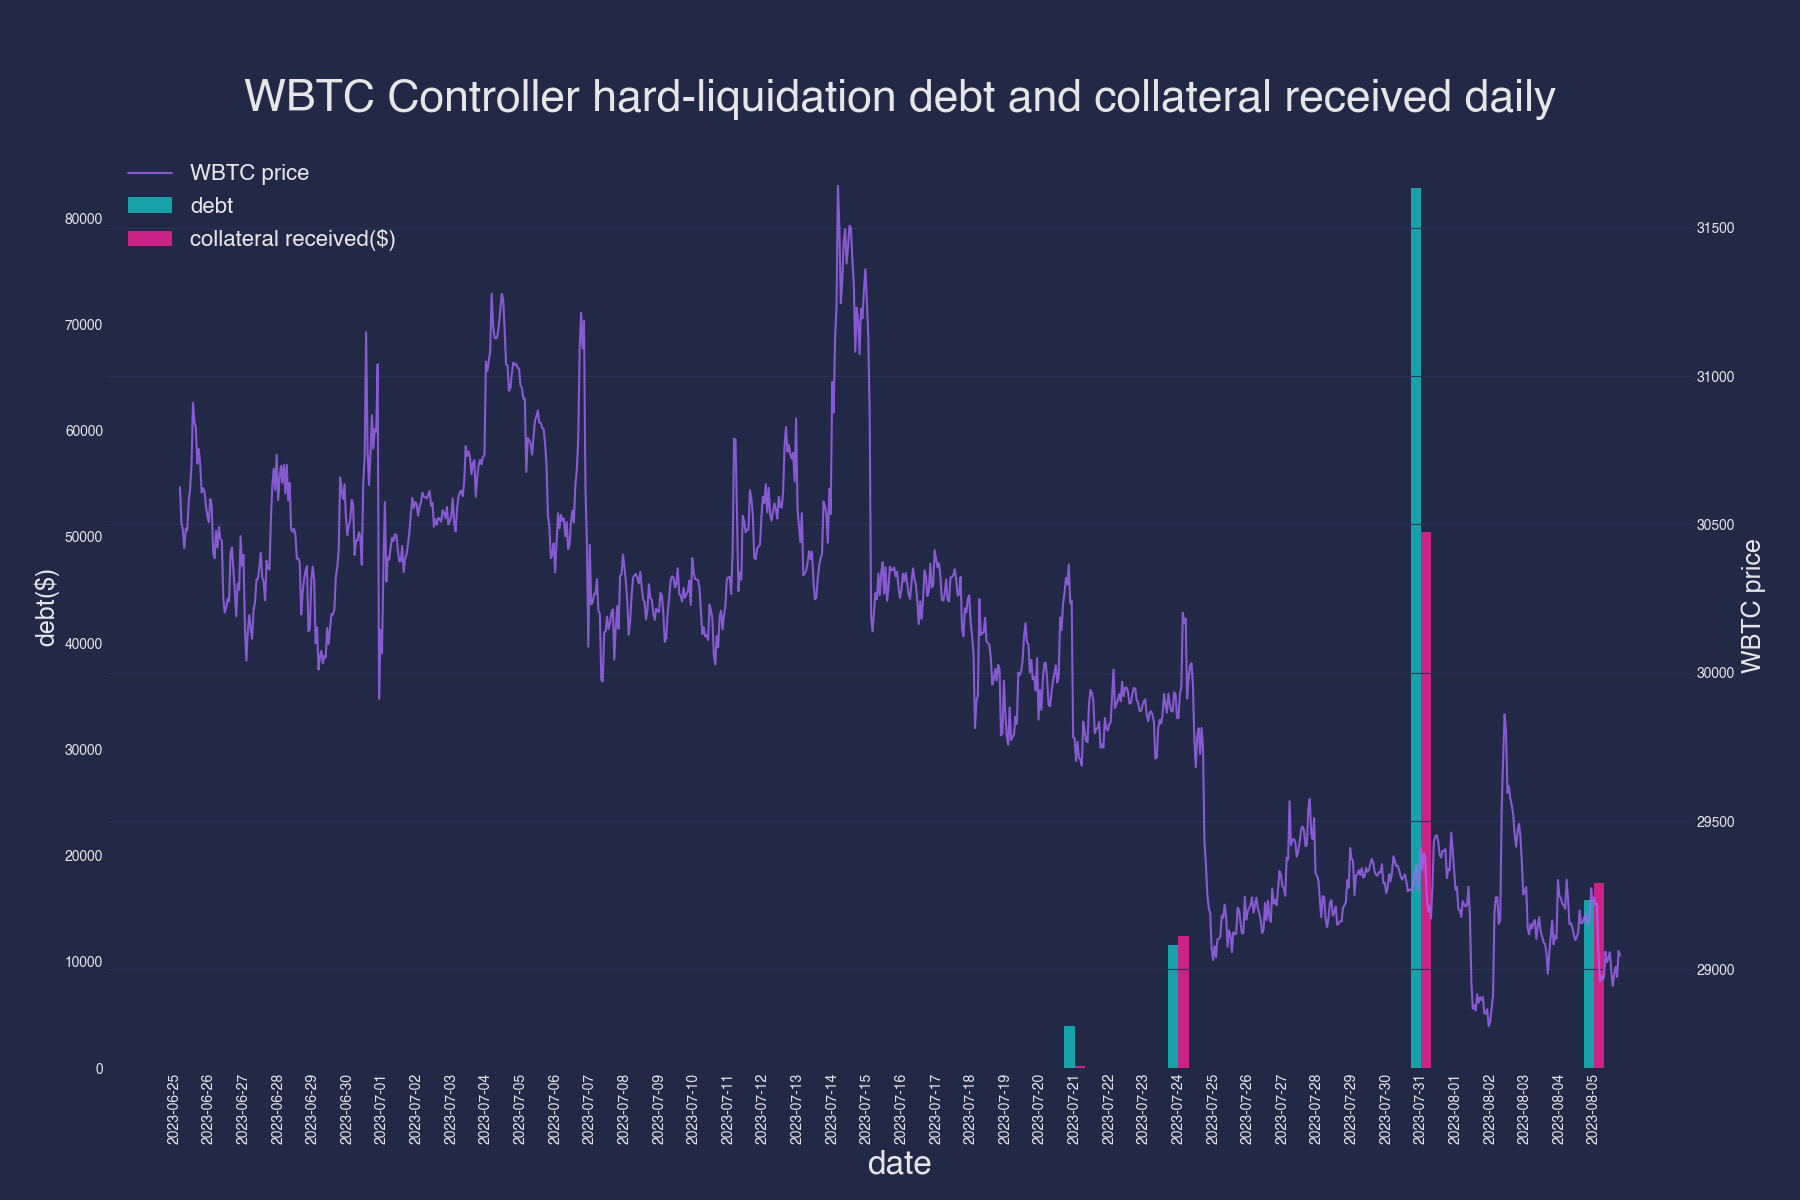
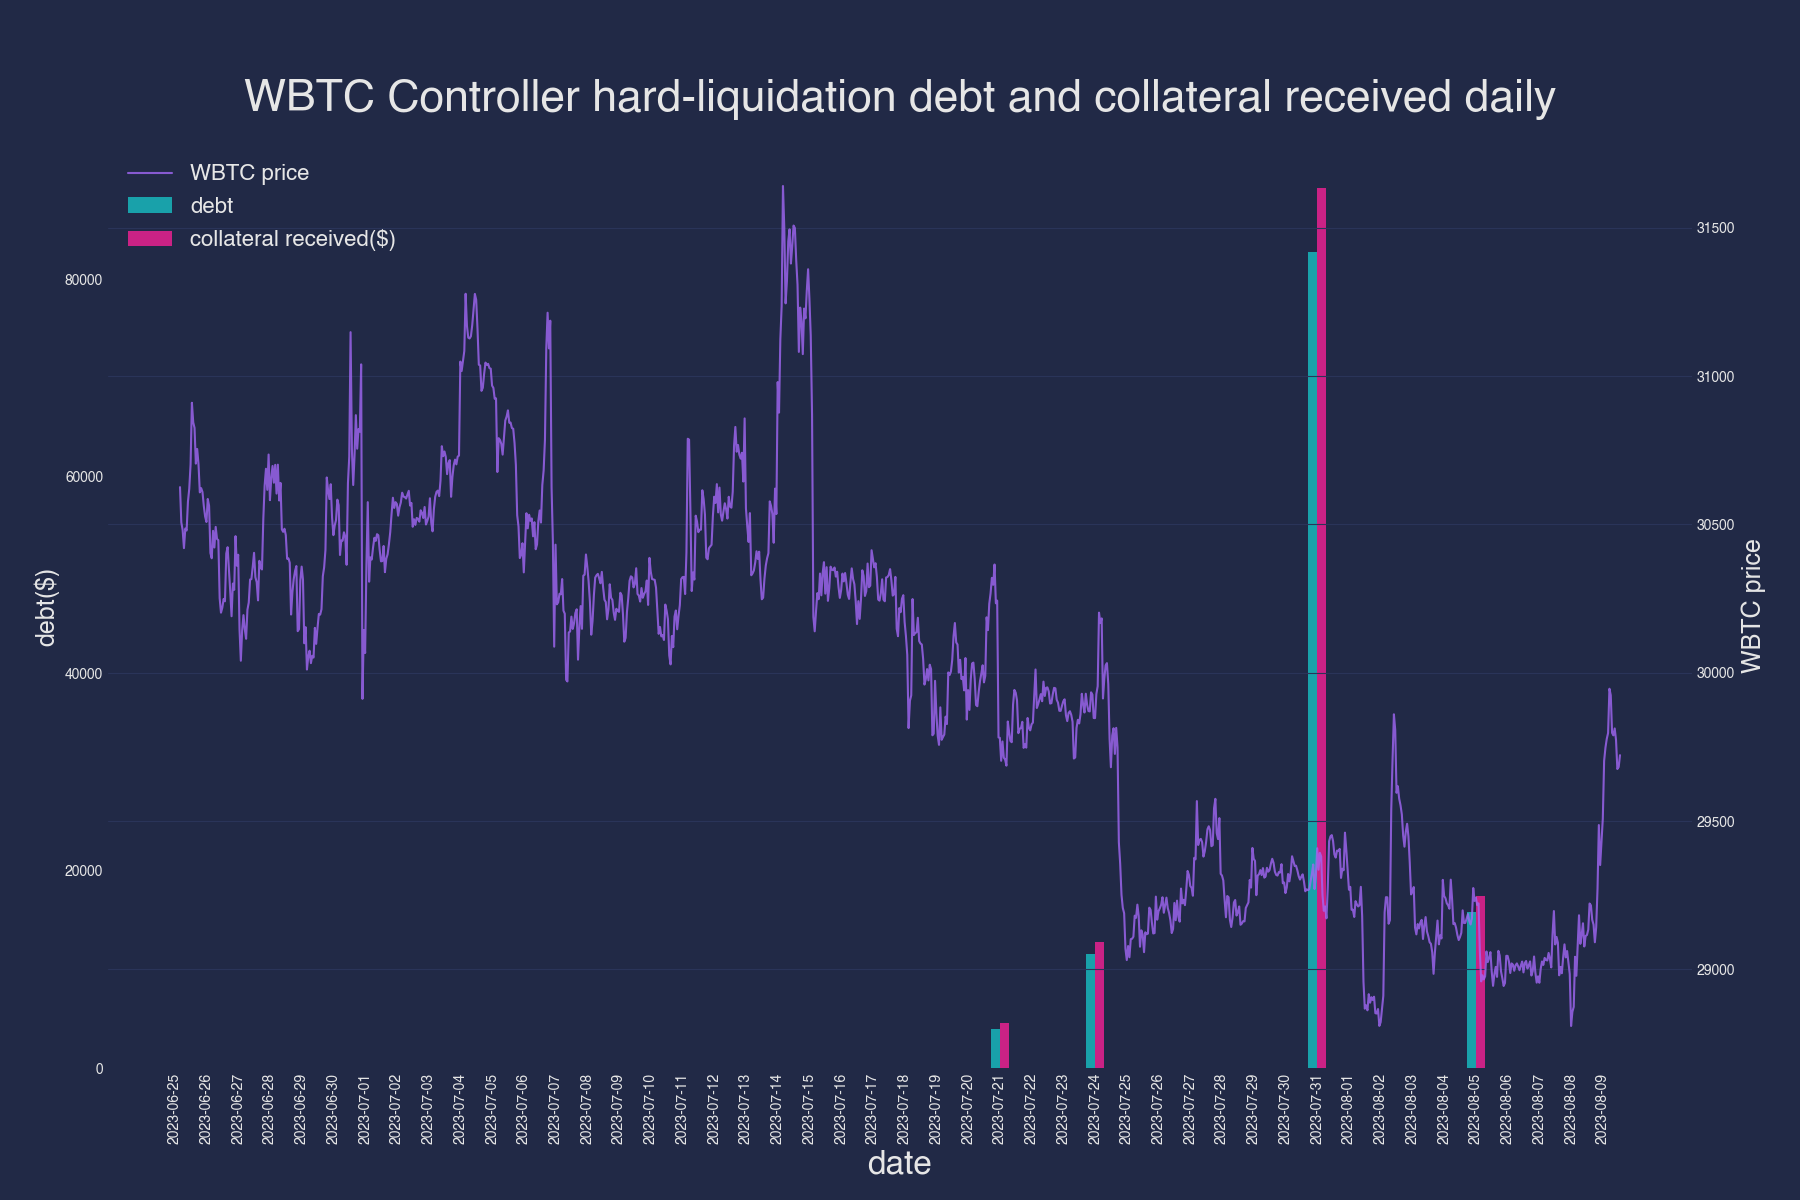
fix decimals problem

diff --git a/crvusd_arbitrage_analytics/analytics/arbitrage_statistics.py b/crvusd_arbitrage_analytics/analytics/arbitrage_statistics.py
@@ -6,6 +6,7 @@ import numpy as np
 import matplotlib.pyplot as plt
 import matplotlib.ticker as mticker
 from analytics.sort_trades import sort_arbitrage_data
+from config.constance import TOKEN_DECIMALS
 from config.filename_config import (
     DEFAULT_COINGECKO_PRICES_HISTORICAL_RAW_DIR,
     DEFAUT_LIQUIDATIONS_GQL_DIR,
@@ -702,9 +703,9 @@ def load_liquidations_df(token_symbol):
             row = raws[i]
 
             timestamp = row["blockTimestamp"]
-            debt = float(row["debt"]) / 1e18
-            collateral_received = float(row["collateralReceived"]) / 1e18
-            stablecoin_received = float(row["stablecoinReceived"]) / 1e18
+            debt = float(row["debt"]) / 10**TOKEN_DECIMALS["crvusd"]
+            collateral_received = float(row["collateralReceived"]) / 10**TOKEN_DECIMALS[token_symbol.lower()]
+            stablecoin_received = float(row["stablecoinReceived"]) / 10**TOKEN_DECIMALS["crvusd"]
 
             user = row["user"]["id"]
             liquidator = row["liquidator"]["id"]

diff --git a/crvusd_arbitrage_analytics/config/constance.py b/crvusd_arbitrage_analytics/config/constance.py
@@ -33,7 +33,7 @@ COINGECKO_PRICE_HISTORICAL = "https://api.coingecko.com/api/v3/coins/{id}/market
 TOKEN_DECIMALS = {
     "eth": 18,
     "weth": 18,
-    "wbtc": 18,
+    "wbtc": 8,
     "frxeth": 18,
     "sfrxeth": 18,
     "steth": 18,
